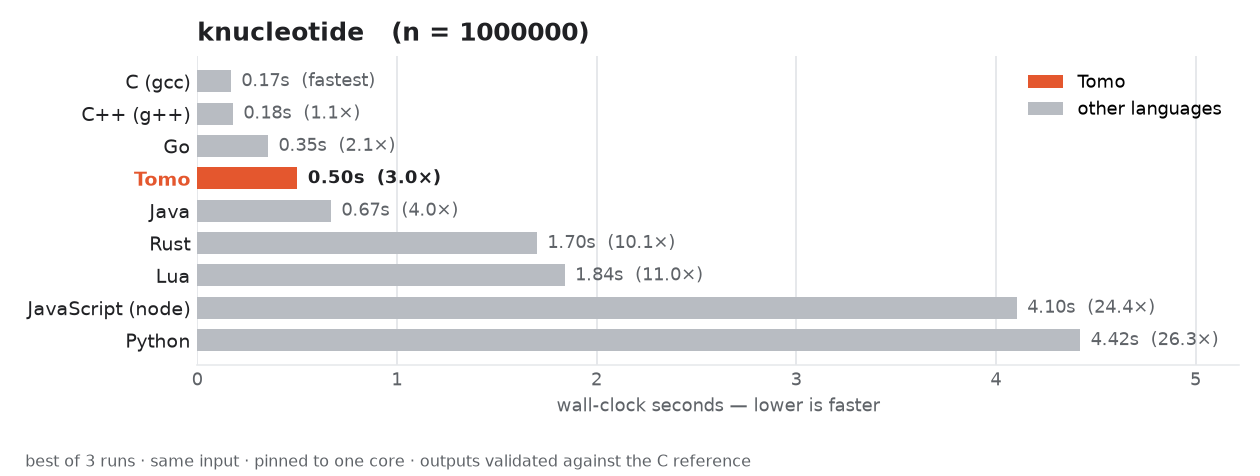
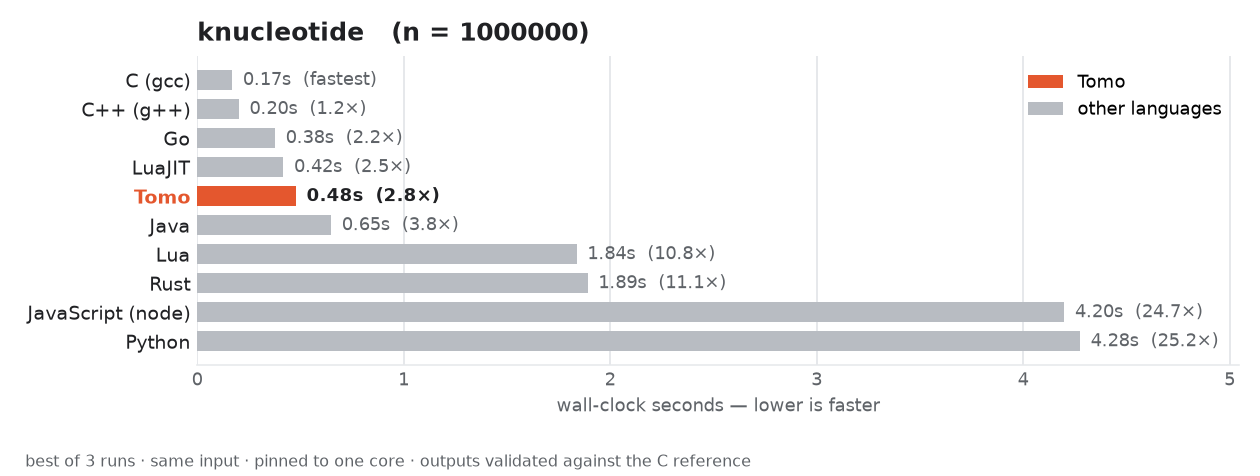
Enable C# (Native AOT) and LuaJIT across the benchmark suite
C#: the handler now builds via `dotnet publish` with PublishAot instead of a
JIT `dotnet build`, producing a standalone native binary — a fair peer to the
other compiled languages, with none of the ~25 ms runtime startup a
`dotnet foo.dll` launch adds to every short run. Removed the `disabled` flag;
gate on `dotnet` + `clang` (the AOT linker). C# now runs in nbody, fannkuch,
fasta, and binary-trees (fastest on fannkuch, 2nd on binary-trees). It stays
out of k-nucleotide, whose CLBG C# entries need the external
Microsoft.Collections.DictionarySlim package.

LuaJIT: it was only ever skipped on fasta (whose Lua entry calls the 5.2+
`table.unpack`) and, incidentally, never wired up for k-nucleotide (which needs
no shim at all). Added a generic `prelude` field run via the interpreter's
`-e` before the script; the luajit spec carries a one-line
`table.unpack=unpack` shim, so Lua and LuaJIT run the same fetched source
byte-for-byte without patching it on disk. LuaJIT now runs all five (3rd on
fasta, edges out Tomo on k-nucleotide).

All outputs validated against the C reference; graphs regenerated.

diff --git a/benchmarks/bench.py b/benchmarks/bench.py
@@ -29,6 +29,24 @@ RESULTS = os.path.join(HERE, "results.json")
 # used by the ports (e.g. `for x at i in xs`), and silently mis-parse them.
 LOCAL_TOMO = os.path.join(HERE, "..", "local-tomo")
 
+# C# is compiled with Native AOT (matching CLBG's `csharpaot` entries) so it
+# produces a standalone native binary — a fair peer to the other compiled
+# languages, with none of the ~25 ms JIT/runtime startup a `dotnet foo.dll`
+# launch would add to every short benchmark. Needs `clang` for the final link.
+CSPROJ_AOT = """<Project Sdk="Microsoft.NET.Sdk">
+  <PropertyGroup>
+    <OutputType>Exe</OutputType>
+    <TargetFramework>net10.0</TargetFramework>
+    <ImplicitUsings>enable</ImplicitUsings>
+    <Nullable>disable</Nullable>
+    <AllowUnsafeBlocks>true</AllowUnsafeBlocks>
+    <Optimize>true</Optimize>
+    <PublishAot>true</PublishAot>
+    <InvariantGlobalization>true</InvariantGlobalization>
+  </PropertyGroup>
+</Project>
+"""
+
 
 def load_config():
     with open(os.path.join(HERE, "config.json")) as f:
@@ -87,7 +105,8 @@ def tool_available(spec):
     if handler == "java":
         return shutil.which("javac") and shutil.which("java")
     if handler == "csharp":
-        return bool(shutil.which("dotnet"))
+        # Native AOT needs the .NET SDK plus clang to link the native binary.
+        return bool(shutil.which("dotnet") and shutil.which("clang"))
     exe = (spec.get("build") or spec.get("run"))[0]
     if exe == "{tomo}":
         return os.access(LOCAL_TOMO, os.X_OK)
@@ -185,15 +204,14 @@ def prepare(cfg, bname, lang):
 
     if handler == "csharp":
         proj = os.path.join(bdir, "cs")
-        if not os.path.exists(proj):
-            os.makedirs(proj)
-            _check(["dotnet", "new", "console", "-o", proj], quiet=True)
+        os.makedirs(proj, exist_ok=True)
+        with open(os.path.join(proj, "cs.csproj"), "w") as f:
+            f.write(CSPROJ_AOT)
         shutil.copyfile(src, os.path.join(proj, "Program.cs"))
-        _check(["dotnet", "build", "-c", "Release", "-o",
-                os.path.join(proj, "out"), proj], quiet=True)
-        dll = next(f for f in os.listdir(os.path.join(proj, "out"))
-                   if f.endswith(".dll") and "Microsoft" not in f)
-        return ["dotnet", os.path.join(proj, "out", dll)]
+        outdir = os.path.join(proj, "out")
+        _check(["dotnet", "publish", "-c", "Release", "-o", outdir, proj],
+               quiet=True)
+        return [os.path.join(outdir, "cs")]  # the AOT-linked native binary
 
     if "build" in spec:
         binpath = os.path.join(bdir, lang)
@@ -204,7 +222,16 @@ def prepare(cfg, bname, lang):
         _check(expand(spec["build"], src=src, bin=binpath, tomo=LOCAL_TOMO) + cflags)
         return expand(spec["run"], src=src, bin=binpath, tomo=LOCAL_TOMO)
 
-    return expand(spec["run"], src=src, bin="", tomo=LOCAL_TOMO)
+    run = expand(spec["run"], src=src, bin="", tomo=LOCAL_TOMO)
+    # A `prelude` is a one-liner run via the interpreter's `-e` before the
+    # script — used to shim LuaJIT (Lua 5.1 semantics) up to the handful of
+    # 5.2+ names a few CLBG Lua entries expect (e.g. `table.unpack`), so we can
+    # run the *same* fetched source under both Lua and LuaJIT without editing
+    # it. The script still sees its own argv.
+    prelude = spec.get("prelude")
+    if prelude:
+        run = [run[0], "-e", prelude] + run[1:]
+    return run
 
 
 BUILD_TIMEOUT = int(os.environ.get("BENCH_BUILD_TIMEOUT", "180"))

diff --git a/benchmarks/README.md b/benchmarks/README.md
@@ -13,16 +13,16 @@ reference). Timings are machine-specific — `results.json` and the vector
 graphs are git-ignored; run the three commands below to reproduce everything
 locally and regenerate these PNGs.
 
-![Tomo vs. other languages across four CLBG benchmarks](results.png)
+![Tomo vs. other languages across five CLBG benchmarks](results.png)
 
 Tomo runs shoulder-to-shoulder with the compiled languages on the tight
-compute loops (**n-body**, **fannkuch-redux**), and on the hash-table-heavy
-**k-nucleotide** it places 4th — ahead of Java, Rust, and every scripting
-language. **binary-trees** is an allocation/GC stress test, and Tomo again
-places 4th — behind only AOT Java, C, and C++, and ahead of Go, Node, and every
-scripting language. **fasta** is the outlier, where hand-tuned byte-level
-output gives the low-level entries a wider edge, but Tomo still beats Lua,
-Node, and Python.
+compute loops (**n-body**, **fannkuch-redux**), landing right alongside C, Go,
+and C#. On the hash-table-heavy **k-nucleotide** it comes 5th — ahead of Java,
+Rust, Lua, Node, and Python, with only C, C++, Go, and a warmed-up LuaJIT
+faster. **binary-trees**, an allocation/GC stress test, has it 5th too, behind
+only AOT Java, AOT C#, C, and C++, and ahead of Go, Node, and every scripting
+language. **fasta** is the outlier, where hand-tuned byte-level output gives the
+low-level entries a wider edge, but Tomo still beats Lua, Node, and Python.
 
 Per-benchmark graphs: [n-body](results-nbody.png) ·
 [fannkuch-redux](results-fannkuchredux.png) · [fasta](results-fasta.png) ·
@@ -94,9 +94,17 @@ comparison.
 
 | Status | Languages |
 |--------|-----------|
-| Active | C (gcc), C++ (g++), Rust, Go, Java, JavaScript (node), Lua, LuaJIT, Python, **Tomo** |
-| Disabled | C# — needs a project-style `dotnet build`; disabled in `config.json` for now |
+| Active | C (gcc), C++ (g++), Rust, Go, Java, C#, JavaScript (node), Lua, LuaJIT, Python, **Tomo** |
 | Skipped here | Swift — no `swiftc` toolchain installed on this machine |
+
+C# uses **Native AOT** (`dotnet publish` with `PublishAot`), matching the
+CLBG `csharpaot` entries: the driver writes a minimal AOT `.csproj`, drops the
+fetched source in as `Program.cs`, and runs the resulting standalone native
+binary — a fair peer to the other compiled languages, with none of the JIT/
+runtime startup a `dotnet foo.dll` launch adds to every short run. It needs the
+.NET SDK plus `clang` (for the final native link); machines without both are
+skipped. The first AOT build restores the ILCompiler package from NuGet, so it
+needs network access once.
 
 A language with no installed toolchain is skipped with a message rather than
 failing the run.
@@ -115,14 +123,22 @@ klib's `khash.h`; the benchmark's `cflags` adds `-I/usr/include/klib`, so C is
 skipped on machines where klib isn't installed there. Its Java entry uses
 `graalvmaot-3` (the `-1`/`-2` entries need the external `fastutil` library).
 
-LuaJIT is omitted from **fasta**: the CLBG Lua entries for it use
-`table.unpack` (Lua 5.2+), which LuaJIT (5.1 semantics) does not provide, and
-we don't patch fetched sources.
+LuaJIT runs the same fetched source as Lua. LuaJIT is Lua 5.1, and a few CLBG
+Lua entries call 5.2+ names (e.g. `table.unpack` in the fasta entry), so the
+`luajit` config carries a one-line `prelude` — `if not table.unpack then
+table.unpack=unpack end` — run via `luajit -e` before the script. That shims
+the 5.1/5.2 gap without editing the fetched source, so Lua and LuaJIT run
+byte-identical programs. (k-nucleotide's Lua entry needs no shim; it just
+hadn't been wired up for LuaJIT before.)
 
 Rust is omitted from **binary-trees**: every CLBG Rust entry links an external
 arena crate (`typed_arena`, `bumpalo`) and/or `rayon`, none vendored here. The
 C++ entry (`gpp-2`) is the self-contained one; the faster `gpp-1`/`gpp-3` need
 Boost.Pool. Tomo uses its own GC and heap pointers, no arena — a node is a
 self-referential struct with two optional `@Tree?` children.
+
+C# is omitted from **k-nucleotide**: its CLBG entries depend on the external
+`Microsoft.Collections.DictionarySlim` NuGet package (much like the Java
+entries there need `fastutil`), which isn't vendored here.
 
 [clbg]: https://benchmarksgame-team.pages.debian.net/benchmarksgame/
